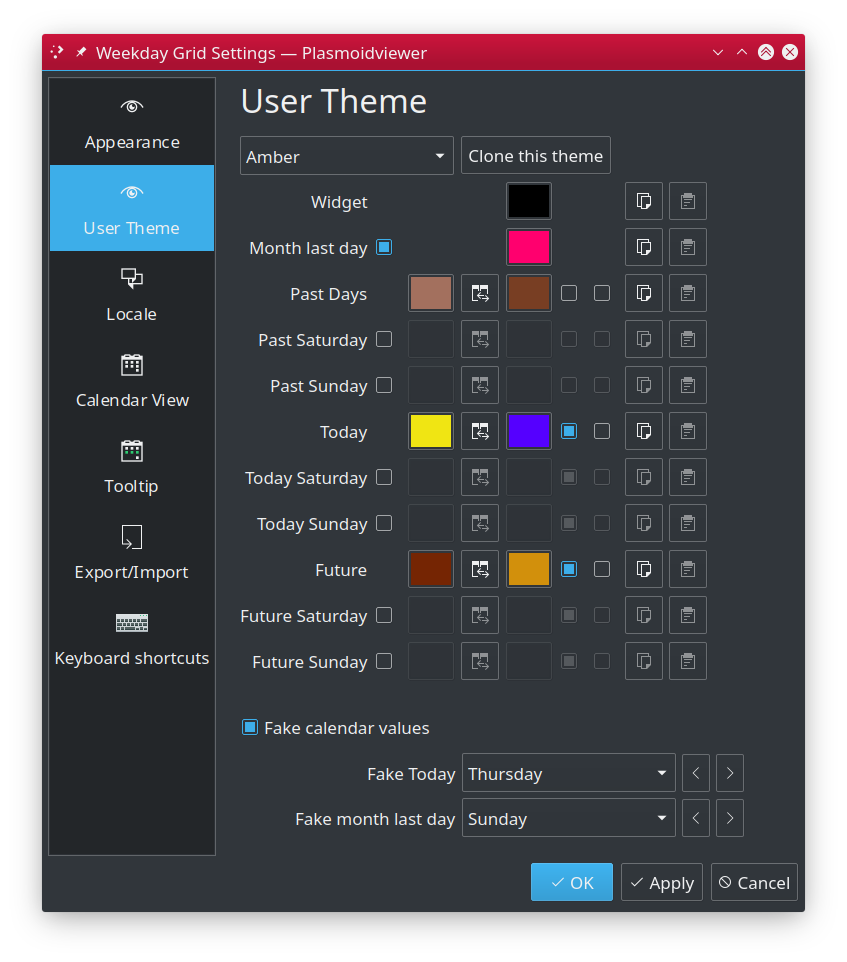
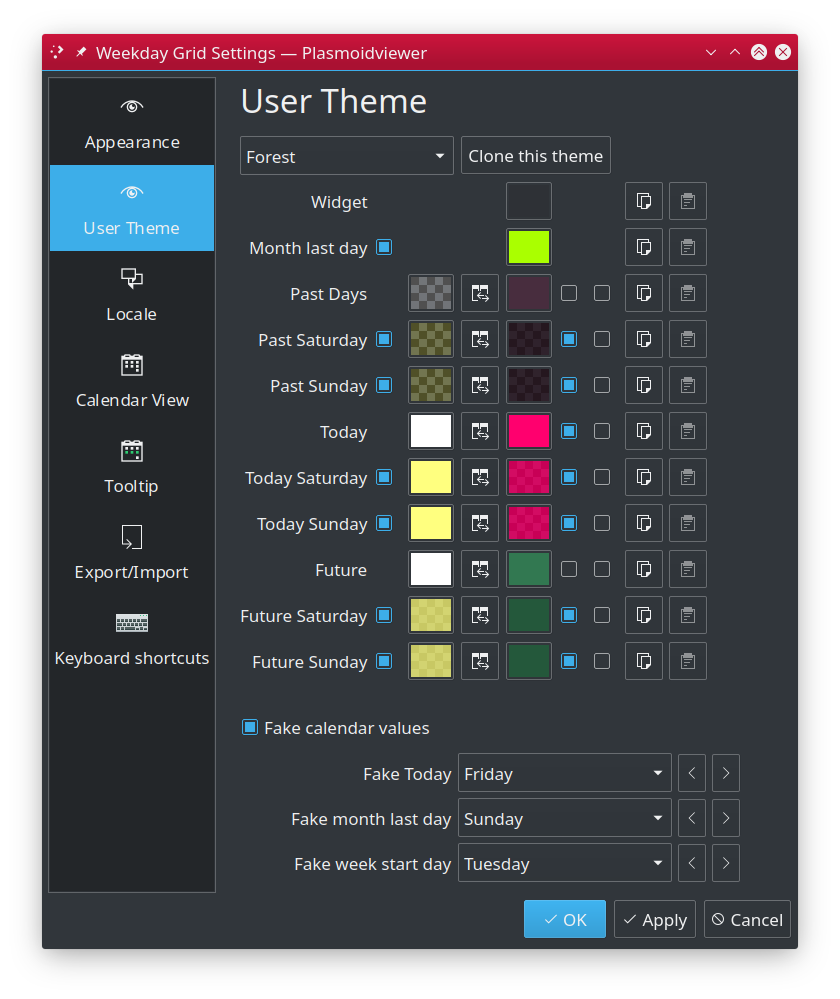
Added 'Fake week start day' feature

Changed region(s): [[0.031, 0.0312, 0.9595, 0.9667], [0.0619, 0.5613, 0.2476, 0.7173]]

diff --git a/src/contents/ui/configTheme.qml b/src/contents/ui/configTheme.qml
@@ -284,6 +284,44 @@ ColumnLayout {
 			}
 		}
 
+		RowLayout {
+			Kirigami.FormData.label: i18n("Fake week start day")
+			PlasmaComponents.ComboBox {
+				id: fakeWeekStartDay
+				model: [
+					i18n("Sunday"),
+					i18n("Monday"),
+					i18n("Tuesday"),
+					i18n("Wednesday"),
+					i18n("Thursday"),
+					i18n("Friday"),
+					i18n("Saturday"),
+				]
+			}
+			PlasmaComponents.Button {
+				implicitWidth: minimumWidth
+				icon.name: "go-previous"
+				onClicked: {
+					var idx = (fakeWeekStartDay.currentIndex > 0) ? (fakeWeekStartDay.currentIndex - 1) : 6
+					fakeWeekStartDay.currentIndex = idx
+					plasmoid.configuration['fakeWeekStartDay'] = idx
+					plasmoid.configuration['useFakeCalendar'] = true
+				}
+			}
+			PlasmaComponents.Button {
+				implicitWidth: minimumWidth
+				icon.name: "go-next"
+				onClicked: {
+					var idx = (fakeWeekStartDay.currentIndex + 1) % 7
+					fakeWeekStartDay.currentIndex = idx
+					plasmoid.configuration['fakeWeekStartDay'] = idx
+					plasmoid.configuration['useFakeCalendar'] = true
+				}
+			}
+		}
+
+
+
 	} // FormLayout
 
 

diff --git a/src/contents/ui/Week.qml b/src/contents/ui/Week.qml
@@ -127,11 +127,10 @@ ColumnLayout {
 		var locale = Qt.locale(localeToUse)
 		firstDayOfWeek = locale.firstDayOfWeek
 
-		if (plasmoid.configuration.nonDefaultWeekStartDayEnabled) {
+		if (plasmoid.configuration.useFakeCalendar) {
+			firstDayOfWeek = plasmoid.configuration.fakeWeekStartDay
+		} else if (plasmoid.configuration.nonDefaultWeekStartDayEnabled) {
 			firstDayOfWeek = plasmoid.configuration.nonDefaultWeekStartDayDayIndex
-		} else {
-			var locale = Qt.locale(localeToUse)
-			firstDayOfWeek = locale.firstDayOfWeek
 		}
 
 		var themeKey = plasmoid.configuration.themeName

diff --git a/src/contents/ui/SettingsMonitor.qml b/src/contents/ui/SettingsMonitor.qml
@@ -202,5 +202,7 @@ Item {
 	onFakeTodayChanged: emitChangedSignal()
 	property int fakeLastDayMonth: plasmoid.configuration.fakeLastDayMonth
 	onFakeLastDayMonthChanged: emitChangedSignal()
+	property int fakeWeekStartDay: plasmoid.configuration.fakeWeekStartDay
+	onFakeWeekStartDayChanged: emitChangedSignal()
 
 }

diff --git a/README.md b/README.md
@@ -119,9 +119,14 @@ Allows you to create own color style, either from scratch or using existing them
 
 #### Fake calendar ####
 
-To make theme testing easier you can enable "Fake calendar" feature and manually configure data passed to Weekday Grid
-such as day of today and last day of the month. All other appearance settings (incl. i.e. localization, day labels,
-first day of week) are also honored.
+To make theme testing easier you can enable "Use fake calendar" feature and manually configure several parameters normally obtained
+from the calendar and set it to any values helpful for testing  that would otherwise not ever occur (i.e. week starts on Wednesday).
+Currently "Use fake calendar" option overrides include:
+
+ * **Fake Today**: Specify what day you want to be considered "Today".
+ * **Fake month last day**: Tricks widget into believing month ends in week being displayed and lets you specify the last day
+   of the month. Helpful while testing "Month last day" theme marker
+ * **Fake week start day**: Set your fake first day of the week.
 
 **NOTE:** Both "Fake Today" and "Fake month last day" feature previous/next navigation buttons. These will automatically commit
 "Use Fake Calendar" option as enabled. This may not be reflected by "Apply" button so hitting "Cancel" will not disable
